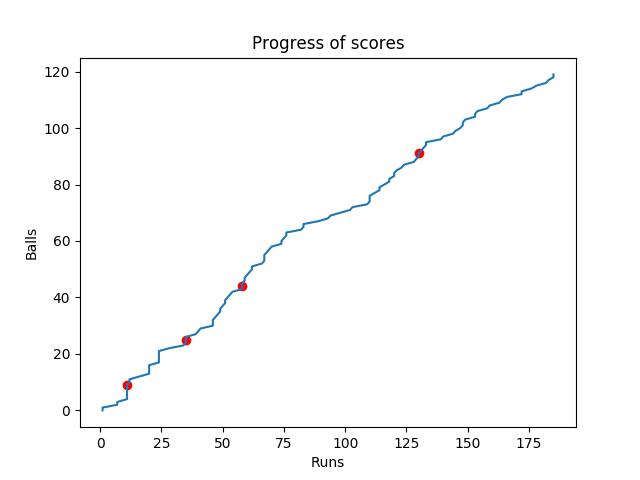
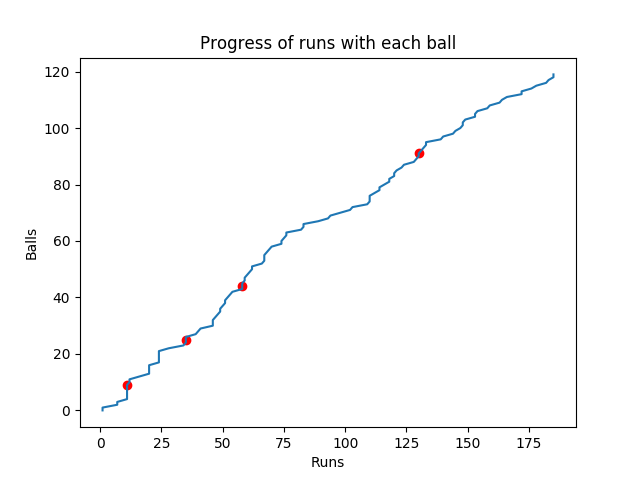
Updated html

Changed region(s): [[0.3125, 0.0625, 0.7188, 0.125]]

diff --git a/venv/Include/output.html b/venv/Include/output.html
@@ -77,10 +77,11 @@
 </tr>
         </table>
         <h3>Trivia</h3>
+        <b>
         <blockquote>Fastest Ball by Prasidh Krishna with a speed of 149.2km/h </blockquote>     
-        <blockquote>Best Hitter David_Miller scoring 53.5points</blockquote>     
-        <blockquote>Best Hitter David_Miller scoring 53.5points</blockquote>     
-           
+        <blockquote>Best Hitter David_Miller scoring 53.5 points</blockquote>     
+        <blockquote>Best Thrower Prasidh Krishna scoring 42.6 points</blockquote>     
+         </b>  
         <blockquote>Did you really expect one more?</blockquote> 
         <br/>    
         <img src="run_vs_ball.png" alt='runs vs balls'/>

diff --git a/venv/Include/analysis.py b/venv/Include/analysis.py
@@ -42,6 +42,23 @@ def best_batsman(bdf):
     m=max(list(scores.keys()))
     return [scores[m],m]
         
+def best_bowler(bdf):
+    scores=dict()
+    for i in bdf.itertuples():
+        score = 0
+        d=0
+        if i[4] is not 0:
+            if i[4] is 4:
+                d=4
+            elif i[4] is 5:
+                d=8
+            score += i[4]*10+i[2]*4 + d
+        else:
+            score += i[2]*4
+        scores[score]=i.bowler
+        
+    m=max(list(scores.keys()))
+    return [scores[m],m]
 
 # Importing dataset
 df = pd.read_csv('main.csv')
@@ -154,10 +171,9 @@ for row in df.itertuples():
         wicketslist.append(row.Index)
 
 # Plot runs vs balls
-plt.title('Progress of scores')
+plt.title('Progress of runs with each ball')
 plt.xlabel('Runs')
 plt.ylabel('Balls')
-plt.legend()
 plt.plot(runslist, df.index)
 plt.scatter([runslist[x] for x in wicketslist], wicketslist, c='red', label='dismissals')
 
@@ -225,6 +241,7 @@ DataBowlers = pd.DataFrame({'1': bowl, '2': overs, '3': maiden, '4': runs, '5': 
 Bowler_columns = ['bowler', 'overs', 'maiden', 'runs', 'wickets', 'NB', 'wide', 'eco']
 DataBowlers.columns = Bowler_columns
 DataBowlers.to_csv('bowler_stat.csv', index=False)
+best_baller = best_bowler(DataBowlers)
 
 # Bowling Facts
 '''   Highest Wicket Taker Taking into Consideration of their Economy rates  '''
@@ -251,6 +268,9 @@ for i in df['over']:
 import matplotlib.pyplot as plt2
 
 o = list(range(1, 21, 1))
+plt2.title('Run rate per over')
+plt2.xlabel('Overs')
+plt2.ylabel('Runrate')
 plt2.scatter(x=o, y=runrate, c='r')
 plt2.plot(o, runrate, c='b')
 plt.savefig('runrate.png')

diff --git a/venv/Include/render.py b/venv/Include/render.py
@@ -68,10 +68,11 @@ body = """
             """ + add_stat(bowler_stat) + """
         </table>
         <h3>Trivia</h3>
+        <b>
         <blockquote>Fastest Ball by """+an.get_name(an.fastest_bowler[0].strip().lower())+" with a speed of "+str(an.fastest_bowler[1])+""" </blockquote>     
         <blockquote>Best Hitter """+an.best_batter[0]+" scoring "+str(an.best_batter[1])+""" points</blockquote>     
-        <blockquote>Best Hitter """+an.best_batter[0]+" scoring "+str(an.best_batter[1])+""" points</blockquote>     
-           
+        <blockquote>Best Thrower """+an.best_baller[0]+" scoring "+str(an.best_baller[1]/10)+""" points</blockquote>     
+         </b>  
         <blockquote>Did you really expect one more?</blockquote> 
         <br/>    
         <img src="run_vs_ball.png" alt='runs vs balls'/>
